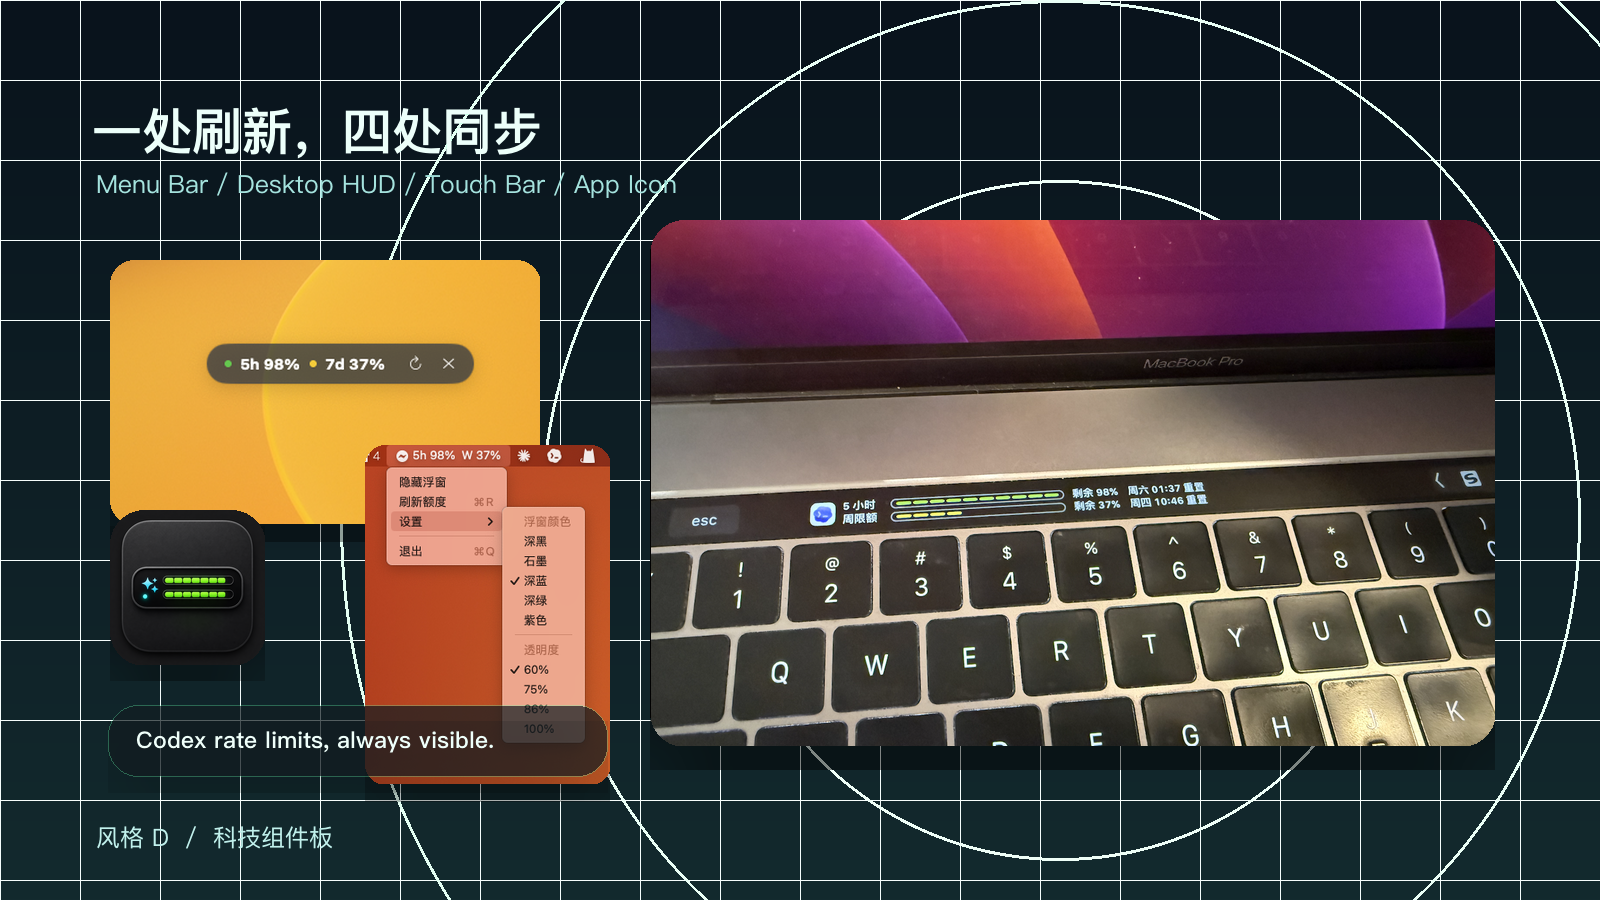
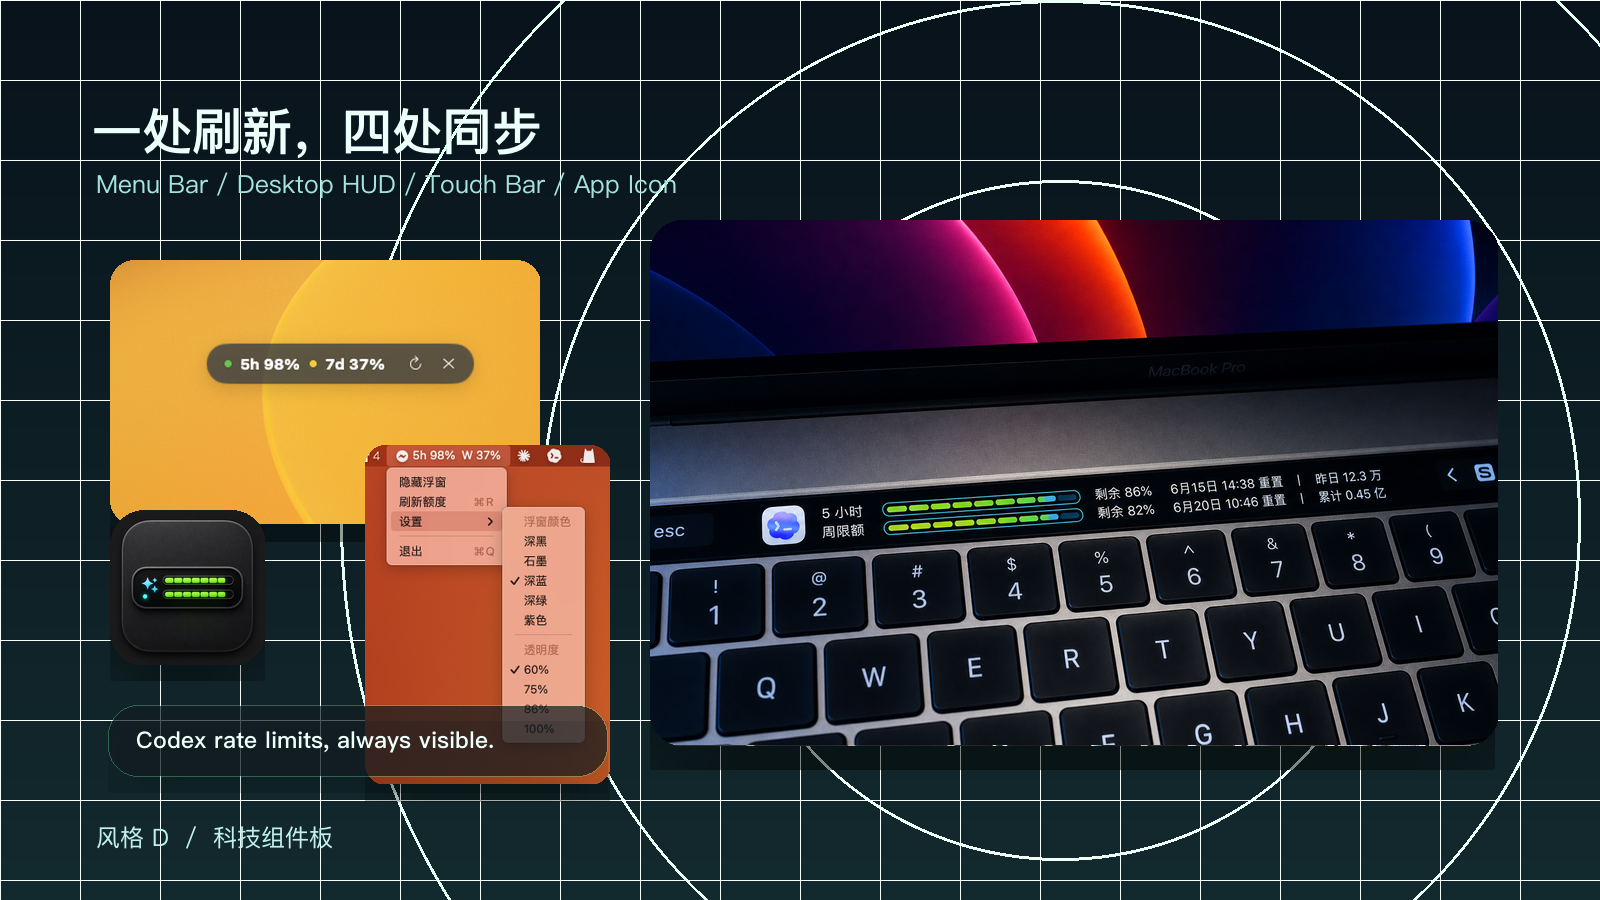
Release v0.1.4 with updated promo images

Changed region(s): [[0.4062, 0.2178, 0.9375, 0.84]]

diff --git a/README.md b/README.md
@@ -4,6 +4,10 @@ TouchBarCodexToken 是一个 macOS 菜单栏 + 桌面 HUD 小工具，用本机 
 
 ![TouchBarCodexToken 宣传图](Marketing/promo-style-d-tech-board.png)
 
+Touch Bar 清晰细节：
+
+![Touch Bar 清晰细节](Marketing/promo-touchbar-upgrade-detail.png)
+
 它不抓网页，也不需要你填写 API Key。应用会启动本机：
 
 ```bash
@@ -76,6 +80,7 @@ Touch Bar 内容包括：
 - `周限额` 分段电量条。
 - 剩余百分比。
 - 重置时间。
+- 本地 token 消耗统计：`昨日` 和 `累计`。
 
 注意：macOS 的公开 Touch Bar API 与当前前台 App / first responder 绑定。切回 Codex 输入后，Touch Bar 可能会被 Codex 自己接管，这是系统限制。
 
@@ -138,7 +143,7 @@ scripts/package-dmg.sh
 打包成功后会生成：
 
 ```text
-dist/TouchBarCodexToken-0.1.3.dmg
+dist/TouchBarCodexToken-0.1.4.dmg
 ```
 
 分享给其他人时，推荐上传这个 DMG 到 GitHub Releases。当前项目没有 Apple Developer 签名和公证，首次打开时 macOS 可能提示无法验证开发者；用户可以在 Finder 中右键点击 app，选择“打开”，再确认一次。
@@ -177,11 +182,15 @@ scripts/make-app-icon.py
 
 ## 更新记录
 
-### 开发中
+### 0.1.4
 
 - 新增 LaunchAgent 启动器，首次运行后可在 Codex 启动时自动打开额度条。
 - 新增 `scripts/package-dmg.sh`，可生成用于分享安装的 DMG。
 - README 增加 Intel Mac、Apple Silicon Mac、无 Touch Bar Mac 的兼容性说明。
+- Touch Bar 增加本地 token 消耗统计，显示 `昨日` 和 `累计` 用量。
+- 重置时间统一显示为 `M月d日 HH:mm 重置`，让 5 小时额度和周额度两行更容易对齐阅读。
+- 本地 token 统计改为后台读取，避免刷新时桌面 HUD 和菜单栏短暂卡住。
+- 更新 README 宣传图，并新增一张更清晰的 Touch Bar 细节图。
 
 ### 0.1.2
 